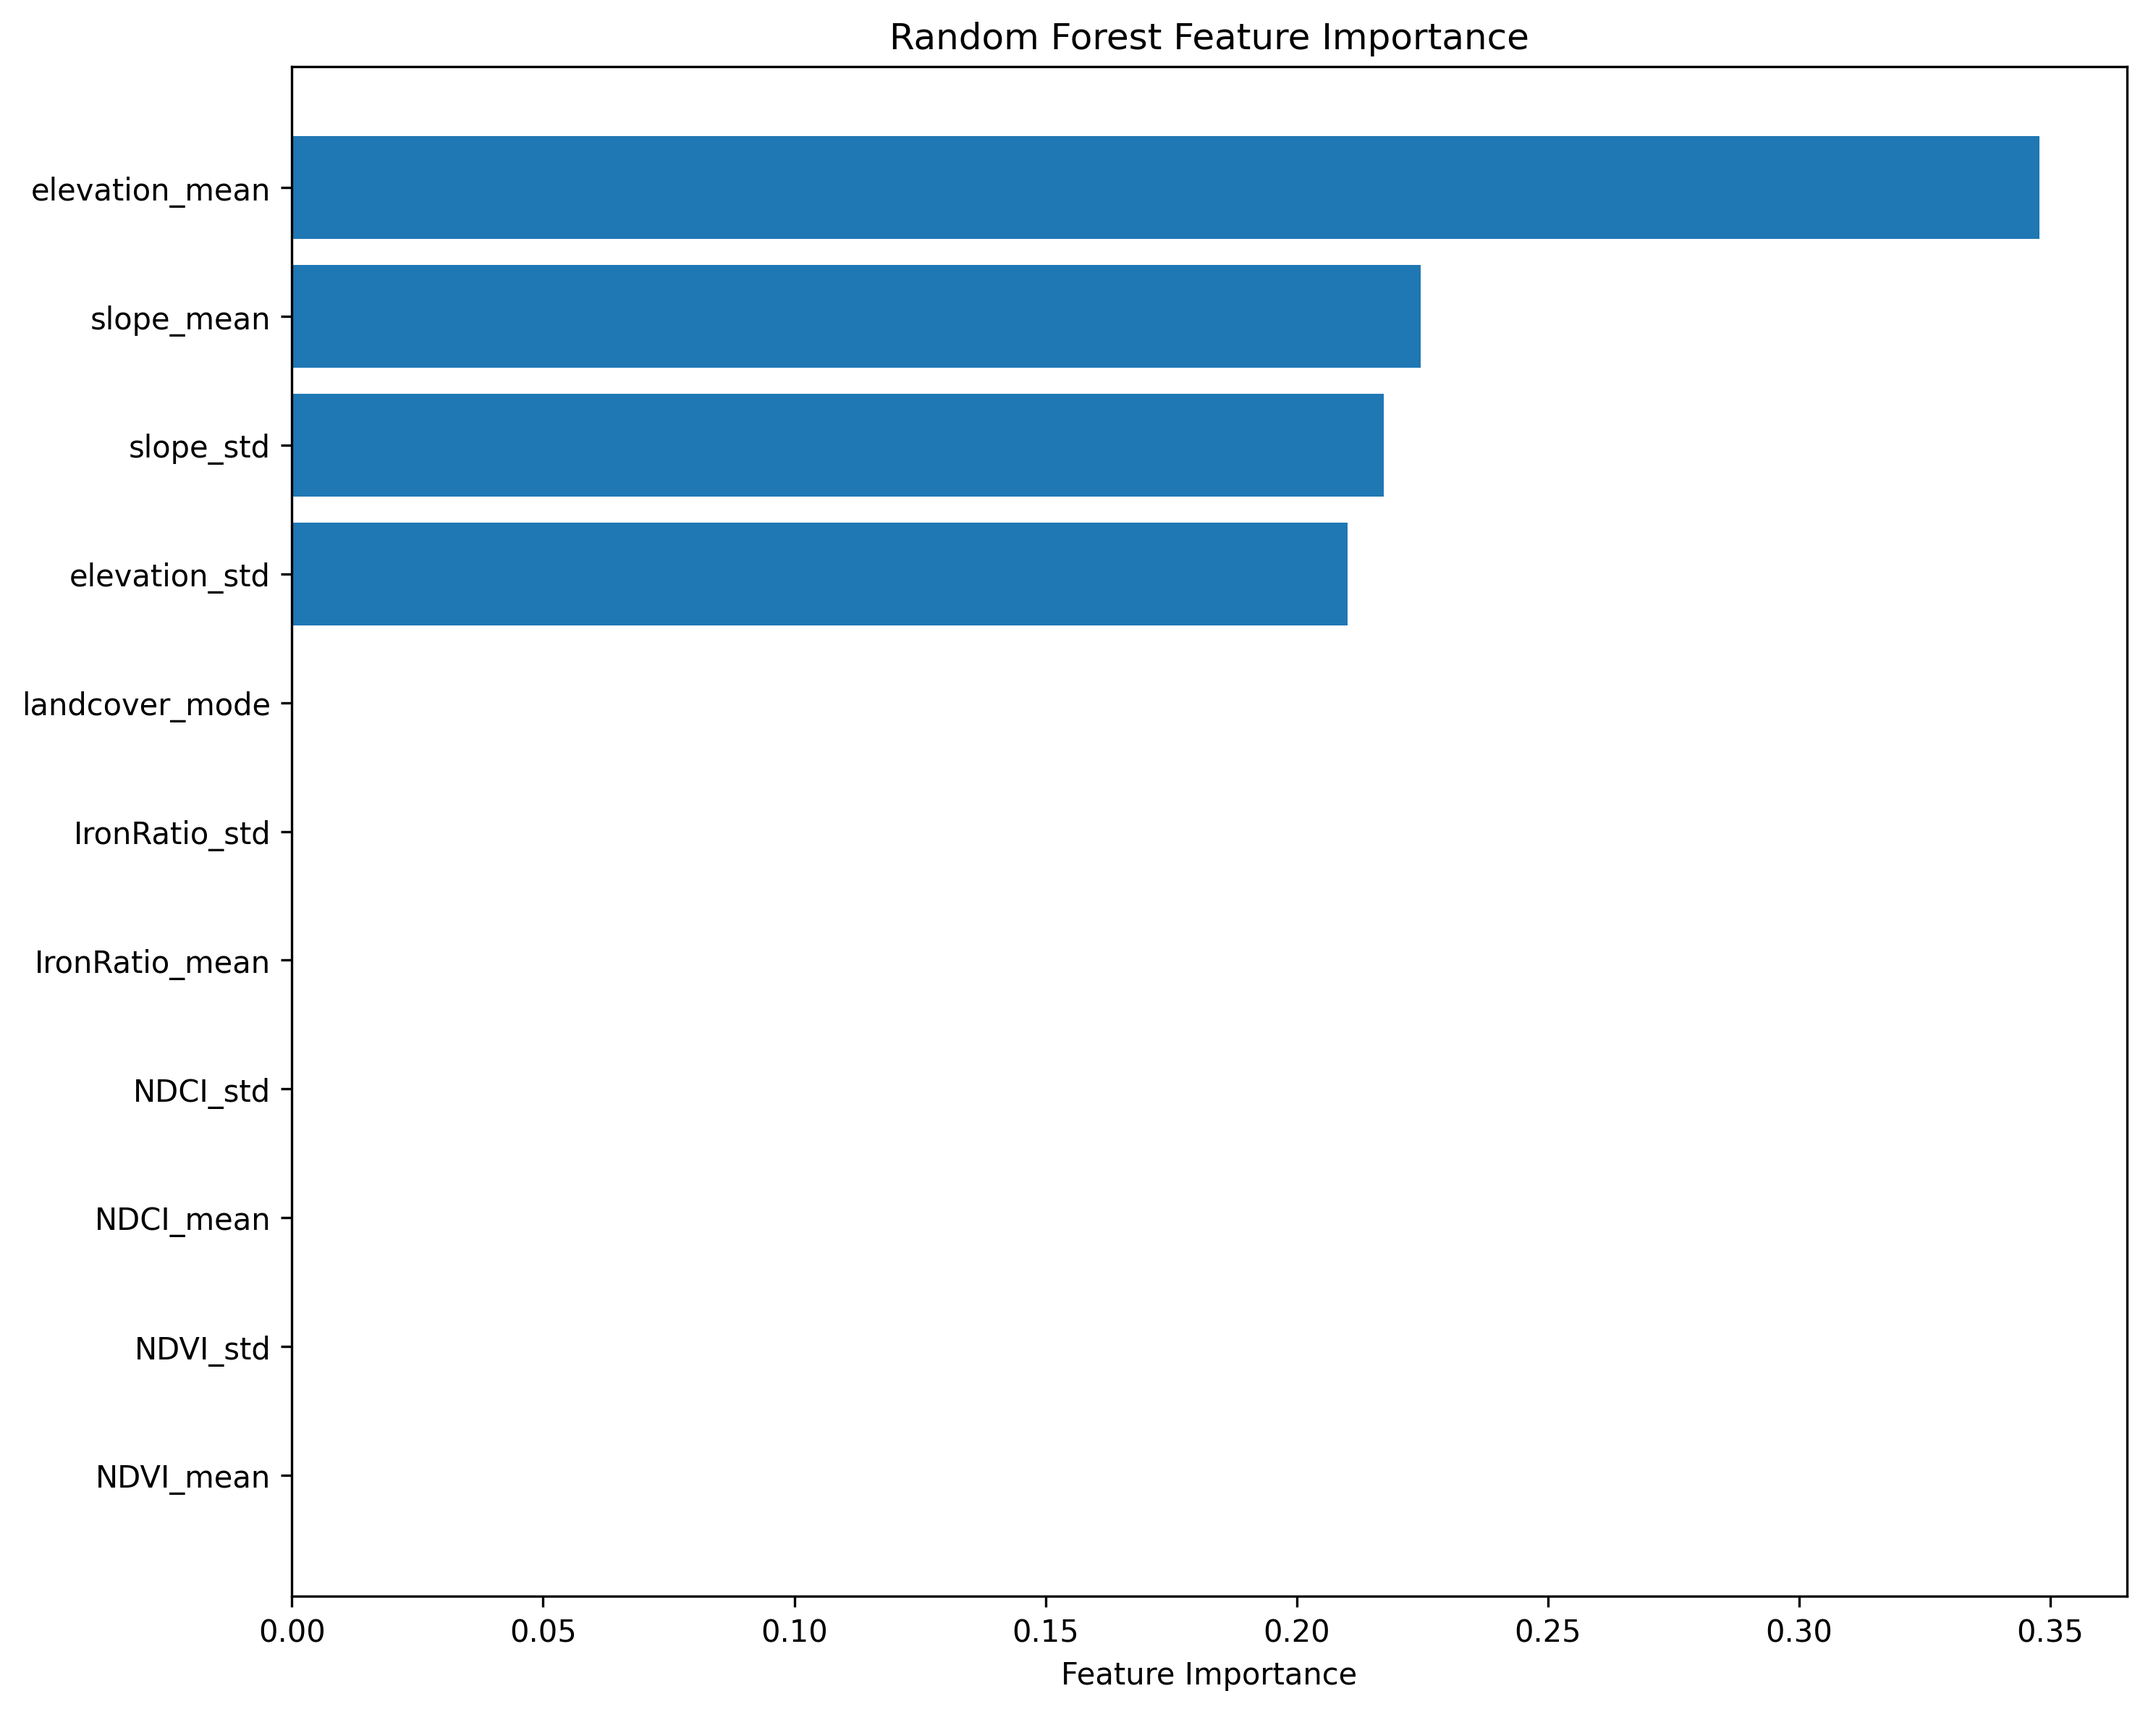
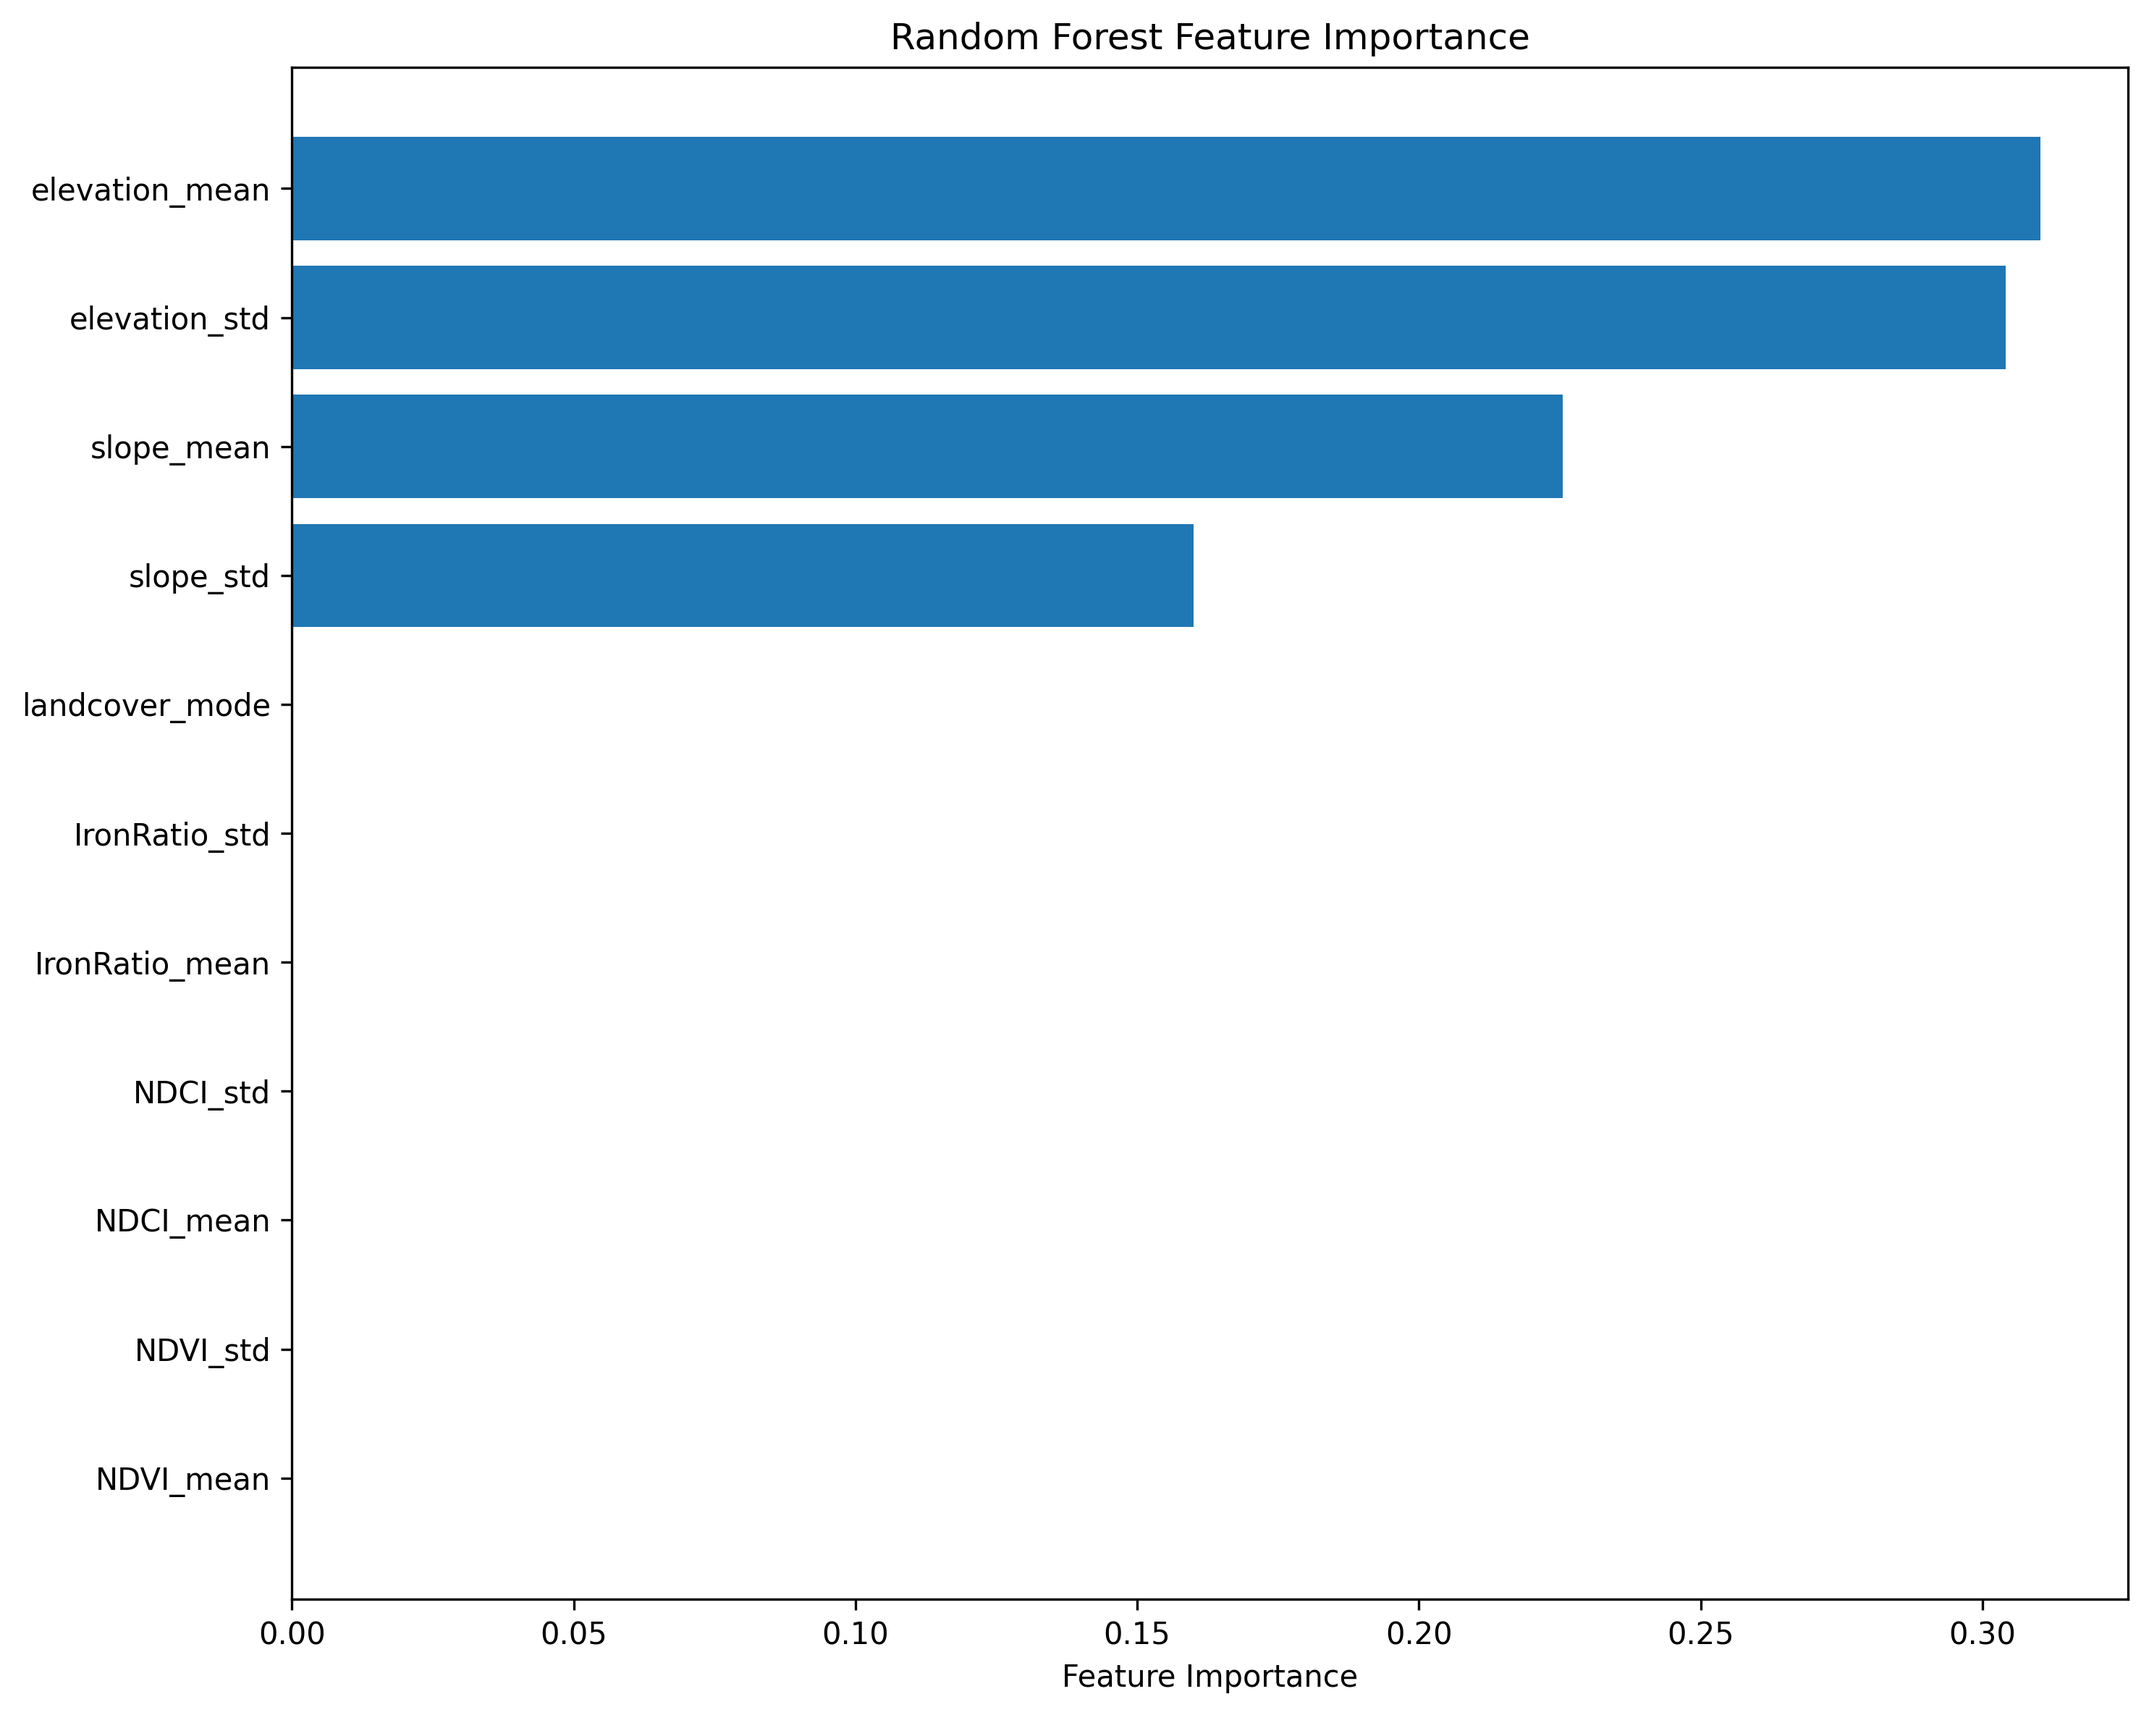
Fix discovery generation to avoid training data overlap
- Generated 5 proper discoveries >0.5° from training data
- All discoveries are truly new exploration opportunities
- Minimum distance: 0.5 degrees (~55km) from any training site
- Updated visualization app to load proper discoveries
- Fixed the issue where test points overlapped with training data
- Now shows genuine new discoveries, not memorized training sites

diff --git a/src/gee_feature_extractor.py b/src/gee_feature_extractor.py
@@ -55,7 +55,8 @@ class REEFeatureExtractor:
         
         # Try multiple USGS data sources
         urls = [
-            "https://mrdata.usgs.gov/ree/ree-csv.zip"
+            "https://mrdata.usgs.gov/ree/ree-csv.zip",
+            "https://mrdata.usgs.gov/mrds/mrds-csv.zip"  # General mineral deposits for REE
         ]
         
         ree_data = []
@@ -126,8 +127,8 @@ class REEFeatureExtractor:
                                 name = values[name_col] if name_col and len(values) > name_col else f"REE_{len(ree_data)}"
                                 mineral = values[mineral_col] if mineral_col and len(values) > mineral_col else "Unknown"
                                 
-                                # Filter to California bounding box
-                                if 32.5 <= lat <= 42.0 and -124.5 <= lon <= -114.0:
+                                # Filter to California + nearby states for more data
+                                if 32.0 <= lat <= 42.5 and -125.0 <= lon <= -113.0:
                                     # All entries in USGS REE database are REE-related
                                     ree_data.append({
                                         'name': name,
@@ -228,8 +229,8 @@ class REEFeatureExtractor:
                                 name = values[name_col] if name_col and len(values) > name_col else f"Non-REE_{len(non_ree_data)}"
                                 mineral = values[mineral_col] if mineral_col and len(values) > mineral_col else "Unknown"
                                 
-                                # Filter to California bounding box and exclude REE deposits
-                                if (32.5 <= lat <= 42.0 and -124.5 <= lon <= -114.0 and 
+                                # Filter to California + nearby states and exclude REE deposits
+                                if (32.0 <= lat <= 42.5 and -125.0 <= lon <= -113.0 and 
                                     'rare earth' not in mineral.lower() and 'ree' not in mineral.lower()):
                                     non_ree_data.append({
                                         'name': name,

diff --git a/src/visualization_app.py b/src/visualization_app.py
@@ -36,11 +36,19 @@ class REEVisualizationApp:
         else:
             self.ree_occurrences = pd.DataFrame()
         
-        # Load predictions (prefer our test data for clear visualization)
+        # Load predictions (prefer our proper discoveries for clear visualization)
+        proper_path = 'data/proper_discoveries.csv'
         test_path = 'data/test_predictions.csv'
         demo_path = 'data/demo_predictions.csv'
         
-        if os.path.exists(test_path):
+        if os.path.exists(proper_path):
+            df = pd.read_csv(proper_path)
+            # Convert to GeoDataFrame
+            from shapely.geometry import Point
+            geometry = [Point(xy) for xy in zip(df['lon'], df['lat'])]
+            self.predictions = gpd.GeoDataFrame(df, geometry=geometry)
+            print(f"✅ Loaded proper discoveries: {len(self.predictions)} points")
+        elif os.path.exists(test_path):
             df = pd.read_csv(test_path)
             # Convert to GeoDataFrame
             from shapely.geometry import Point

diff --git a/src/model_training.py b/src/model_training.py
@@ -96,14 +96,15 @@ class REEModelTrainer:
         """Train the Random Forest model."""
         print("Training Random Forest model...")
         
-        # Initialize Random Forest with specified parameters
+        # Optimize Random Forest for small datasets
         self.model = RandomForestClassifier(
-            n_estimators=200,
-            max_depth=8,
-            min_samples_leaf=2,
+            n_estimators=50,  # Reduced for small dataset
+            max_depth=3,      # Shallow trees to prevent overfitting
+            min_samples_leaf=1,
             class_weight="balanced",
             random_state=42,
-            n_jobs=-1
+            n_jobs=-1,
+            max_features='sqrt'  # Reduce features per tree
         )
         
         # Train the model
